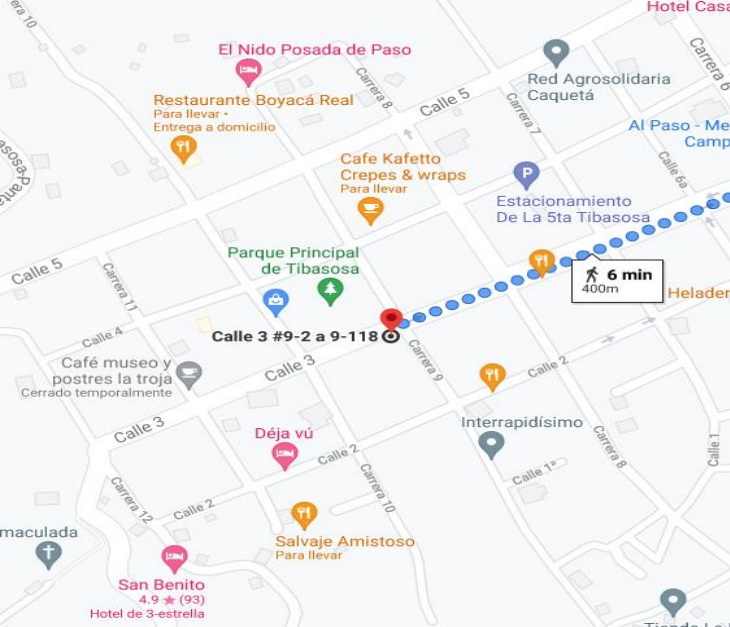
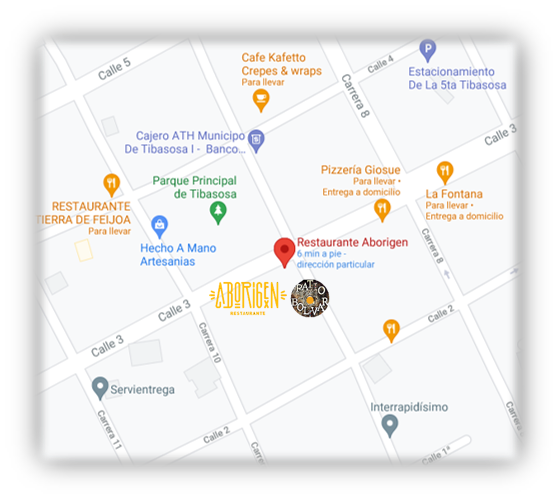
Design changes

diff --git a/src/pages/Gallery/index.tsx b/src/pages/Gallery/index.tsx
@@ -8,9 +8,15 @@ import {makeStyles} from "@material-ui/core/styles";
 import Logo from "../../components/Logo";
 import SocialIcons from "../../components/SocialIcons";
 //Images
-import img1 from "../../assets/images/gallery/1.jpg"
-import img2 from "../../assets/images/gallery/2.jpg"
-import img3 from "../../assets/images/gallery/3.jpg"
+import img1 from "../../assets/images/gallery/img1.jpg"
+import img2 from "../../assets/images/gallery/img2.jpg"
+import img3 from "../../assets/images/gallery/img3.jpg"
+import img4 from "../../assets/images/gallery/img4.jpg"
+import img5 from "../../assets/images/gallery/img5.jpg"
+import img6 from "../../assets/images/gallery/img6.jpg"
+import img7 from "../../assets/images/gallery/img7.jpg"
+import img8 from "../../assets/images/gallery/img8.jpg"
+import img9 from "../../assets/images/gallery/img9.jpg"
 
 
 const useStyles = makeStyles({
@@ -34,16 +40,66 @@ const Gallery = () => {
         </Box>
         <Box py={1}>
             <Hidden only={['md', 'lg', 'xl']}>
-                <Box display="flex" flexDirection="column">
-                    <img src={img1} alt="logo1.png" height={350}/>
-                    <img src={img2} alt="logo2.png" height={350}/>
-                    <img src={img3} alt="logo2.png" height={350}/>
+                <Box display="flex" flexDirection="column" alignItems="center" justifyContent="center" height="100%">
+                    <Box p={1}>
+                        <img src={img1} alt="img1.png" height={300}/>
+                    </Box>
+                    <Box p={1}>
+                        <img src={img2} alt="img2.png" height={300}/>
+                    </Box>
+                    <Box p={1}>
+                        <img src={img3} alt="img3.png" height={300}/>
+                    </Box>
+                    <Box p={1}>
+                        <img src={img4} alt="img1.png" height={300}/>
+                    </Box>
+                    <Box p={1}>
+                        <img src={img5} alt="img2.png" height={300}/>
+                    </Box>
+                    <Box p={1}>
+                        <img src={img6} alt="img3.png" height={300}/>
+                    </Box>
+                    <Box p={1}>
+                        <img src={img7} alt="img1.png" height={300}/>
+                    </Box>
+                    <Box p={1}>
+                        <img src={img8} alt="img2.png" height={300}/>
+                    </Box>
+                    <Box p={1}>
+                        <img src={img9} alt="img3.png" height={300}/>
+                    </Box>
                 </Box>
             </Hidden>
             <Hidden only={['xs', 'sm']}>
-                <img src={img1} alt="logo1.png" height={350}/>
-                <img src={img2} alt="logo2.png" height={350}/>
-                <img src={img3} alt="logo2.png" height={350}/>
+               <Box  display="flex" flexDirection="row" flexWrap="wrap" alignItems="center" justifyContent="center" height="100%">
+                   <Box p={1}>
+                       <img src={img1} alt="img1.png" height={300}/>
+                   </Box>
+                   <Box p={1}>
+                       <img src={img2} alt="img2.png" height={300}/>
+                   </Box>
+                   <Box p={1}>
+                       <img src={img3} alt="img3.png" height={300}/>
+                   </Box>
+                   <Box p={1}>
+                       <img src={img4} alt="img1.png" height={300}/>
+                   </Box>
+                   <Box p={1}>
+                       <img src={img5} alt="img2.png" height={300}/>
+                   </Box>
+                   <Box p={1}>
+                       <img src={img6} alt="img3.png" height={300}/>
+                   </Box>
+                   <Box p={1}>
+                       <img src={img7} alt="img1.png" height={300}/>
+                   </Box>
+                   <Box p={1}>
+                       <img src={img8} alt="img2.png" height={300}/>
+                   </Box>
+                   <Box p={1}>
+                       <img src={img9} alt="img3.png" height={300}/>
+                   </Box>
+               </Box>
             </Hidden>
         </Box>
         <Box py={1}>

diff --git a/src/components/Logo/index.tsx b/src/components/Logo/index.tsx
@@ -1,47 +1,36 @@
 import React from "react";
 //Libraries
-import {Box, Hidden} from "@material-ui/core";
+import {Box, Hidden, Link} from "@material-ui/core";
 import {makeStyles} from "@material-ui/core/styles";
 //Images
-import logo1 from "../../assets/images/logo_1.png"
-import logo2 from "../../assets/images/logo_2.png"
+import logo from "../../assets/images/logo.png"
 
 const useStyles = makeStyles({
-    img1_sm: {
+    logo_sm: {
         height: "100px",
     },
-    img2_sm: {
-        height: "100px",
-    },
-    img1_md: {
+    logo_md: {
         height: "220px",
     },
-    img2_md: {
-        height: "220px",
-    },
-    img1: {
+    logo: {
         height: "250px",
     },
-    img2: {
-        height: "250px",
-    }
 });
 
 const Logo = () => {
     const classes = useStyles();
     return <Box display="flex" flexDirection="row" flexWrap="nowrap">
-        <Hidden only={['md', 'lg', 'xl']}>
-            <img src={logo1} alt="logo1.png" className={classes.img1_sm}/>
-            <img src={logo2} alt="logo2.png" className={classes.img2_sm}/>
-        </Hidden>
-        <Hidden only={['xs', 'sm', 'lg', 'xl']}>
-            <img src={logo1} alt="logo1.png" className={classes.img1_md}/>
-            <img src={logo2} alt="logo2.png" className={classes.img2_md}/>
-        </Hidden>
-        <Hidden only={['xs', 'sm', 'md']}>
-            <img src={logo1} alt="logo1.png" className={classes.img1}/>
-            <img src={logo2} alt="logo2.png" className={classes.img2}/>
-        </Hidden>
+        <Link href="/">
+            <Hidden only={['md', 'lg', 'xl']}>
+                <img src={logo} alt="logo.png" className={classes.logo_sm}/>
+            </Hidden>
+            <Hidden only={['xs', 'sm', 'lg', 'xl']}>
+                <img src={logo} alt="logo.png" className={classes.logo_md}/>
+            </Hidden>
+            <Hidden only={['xs', 'sm', 'md']}>
+                <img src={logo} alt="logo.png" className={classes.logo}/>
+            </Hidden>
+        </Link>
     </Box>
 }
 

diff --git a/src/components/SocialIcons/index.tsx b/src/components/SocialIcons/index.tsx
@@ -1,18 +1,35 @@
 import React from "react";
 //Libraries
-import {Box} from "@material-ui/core";
-import {SocialIcon} from "react-social-icons";
+import {Box, Link} from "@material-ui/core";
+import {makeStyles} from "@material-ui/core/styles";
+//Images
+import fb from "../../assets/images/social/facebook.png"
+import ig from "../../assets/images/social/instagram.png"
+import ws from "../../assets/images/social/whatsapp.png"
+
+const useStyles = makeStyles({
+    social_icon: {
+        height: "40px",
+    },
+});
 
 const SocialIcons = () => {
+    const classes = useStyles();
     return <Box display="flex" flexDirection="row">
         <Box px={1}>
-            <SocialIcon url="https://www.instagram.com/aborigenresta/"/>
+            <Link href="https://www.instagram.com/aborigenresta/">
+                <img src={ig} alt="logo.png" className={classes.social_icon}/>
+            </Link>
         </Box>
         <Box px={1}>
-            <SocialIcon url="https://www.facebook.com/aborigenresta/"/>
+            <Link href="https://www.facebook.com/aborigenresta/">
+                <img src={fb} alt="logo.png" className={classes.social_icon}/>
+            </Link>
         </Box>
         <Box px={1}>
-            <SocialIcon url="https://api.whatsapp.com/send?phone=573173711252"/>
+            <Link href="https://api.whatsapp.com/send?phone=573173711252">
+                <img src={ws} alt="logo.png" className={classes.social_icon}/>
+            </Link>
         </Box>
     </Box>
 }

diff --git a/src/pages/Location/index.tsx b/src/pages/Location/index.tsx
@@ -1,7 +1,7 @@
 import React from "react";
 //Libraries
 import {makeStyles} from "@material-ui/core/styles";
-import {Box, Button} from "@material-ui/core";
+import {Box, Button, Link} from "@material-ui/core";
 //Components
 import Logo from "../../components/Logo";
 import SocialIcons from "../../components/SocialIcons";
@@ -33,7 +33,10 @@ const Location = () => {
                 <h1 className={classes.text}>Tibasosa, Colombia</h1>
                 <h1 className={classes.text}>3173711252</h1>
                 <h1 className={classes.text}>Lun a Dom 6pm - 10pm</h1>
-                <img src={location} alt="logo1.png" height={350}/>
+                <Link
+                    href="https://www.google.com/maps/place/Cl.+3+%239-11,+Tibasosa,+Boyac%C3%A1/@5.7453207,-73.0032396,18.5z/data=!4m5!3m4!1s0x8e6a4137c6ca060b:0xeba7b850d372472b!8m2!3d5.7453252!4d-73.002965?hl=es">
+                    <img src={location} alt="logo1.png" height={350}/>
+                </Link>
             </Box>
         </Box>
         <Box py={1}>

diff --git a/public/index.html b/public/index.html
@@ -25,7 +25,7 @@
       Learn how to configure a non-root public URL by running `npm run build`.
     -->
     <link rel="stylesheet" href="https://fonts.googleapis.com/css?family=Roboto:300,400,500,700&display=swap" />
-    <title>React App</title>
+    <title>Aborigen</title>
   </head>
   <body>
     <noscript>You need to enable JavaScript to run this app.</noscript>

diff --git a/src/pages/Gallery/style.css b/src/pages/Gallery/style.css
@@ -1,5 +1,10 @@
 html,body,#root {
+    background-image: url("../../assets/images/bg.gif");
     background-color: black;
+    height: 100%;
+    background-position: center;
+    background-repeat: no-repeat;
+    background-size: cover;
 }
 
 .test{

diff --git a/src/pages/HomePage/style.css b/src/pages/HomePage/style.css
@@ -1,3 +1,8 @@
 html,body,#root {
+    background-image: url("../../assets/images/bg.gif");
     background-color: black;
+    height: 100%;
+    background-position: center;
+    background-repeat: no-repeat;
+    background-size: cover;
 }

diff --git a/src/pages/Menu/style.css b/src/pages/Menu/style.css
@@ -1,3 +1,8 @@
 html,body,#root {
+    background-image: url("../../assets/images/bg.gif");
     background-color: black;
+    height: 100%;
+    background-position: center;
+    background-repeat: no-repeat;
+    background-size: cover;
 }
